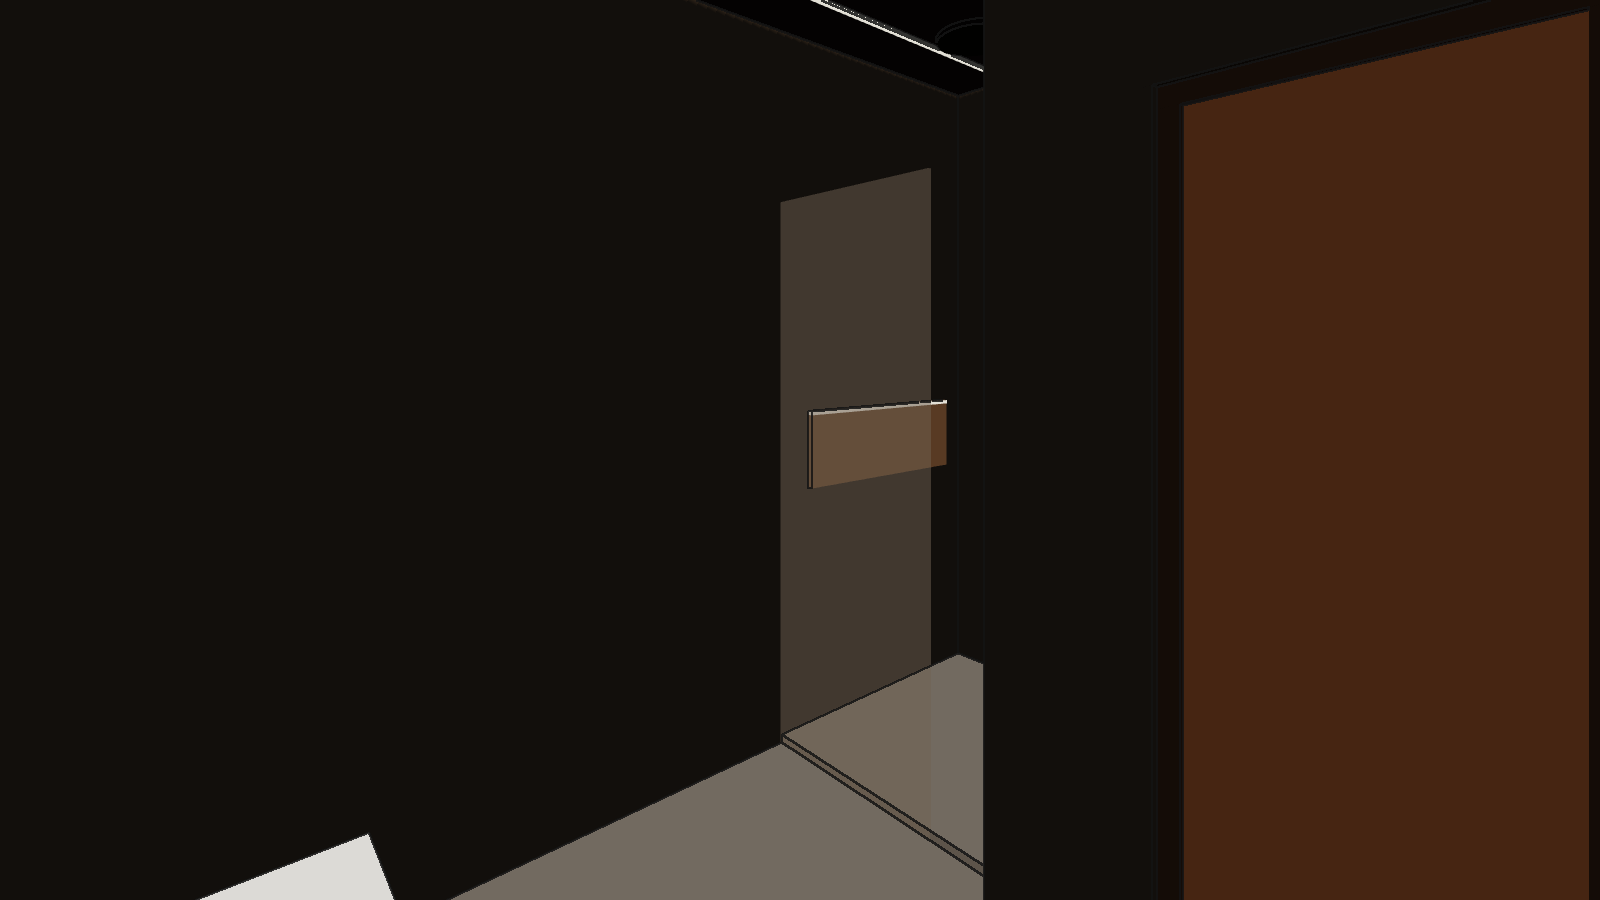
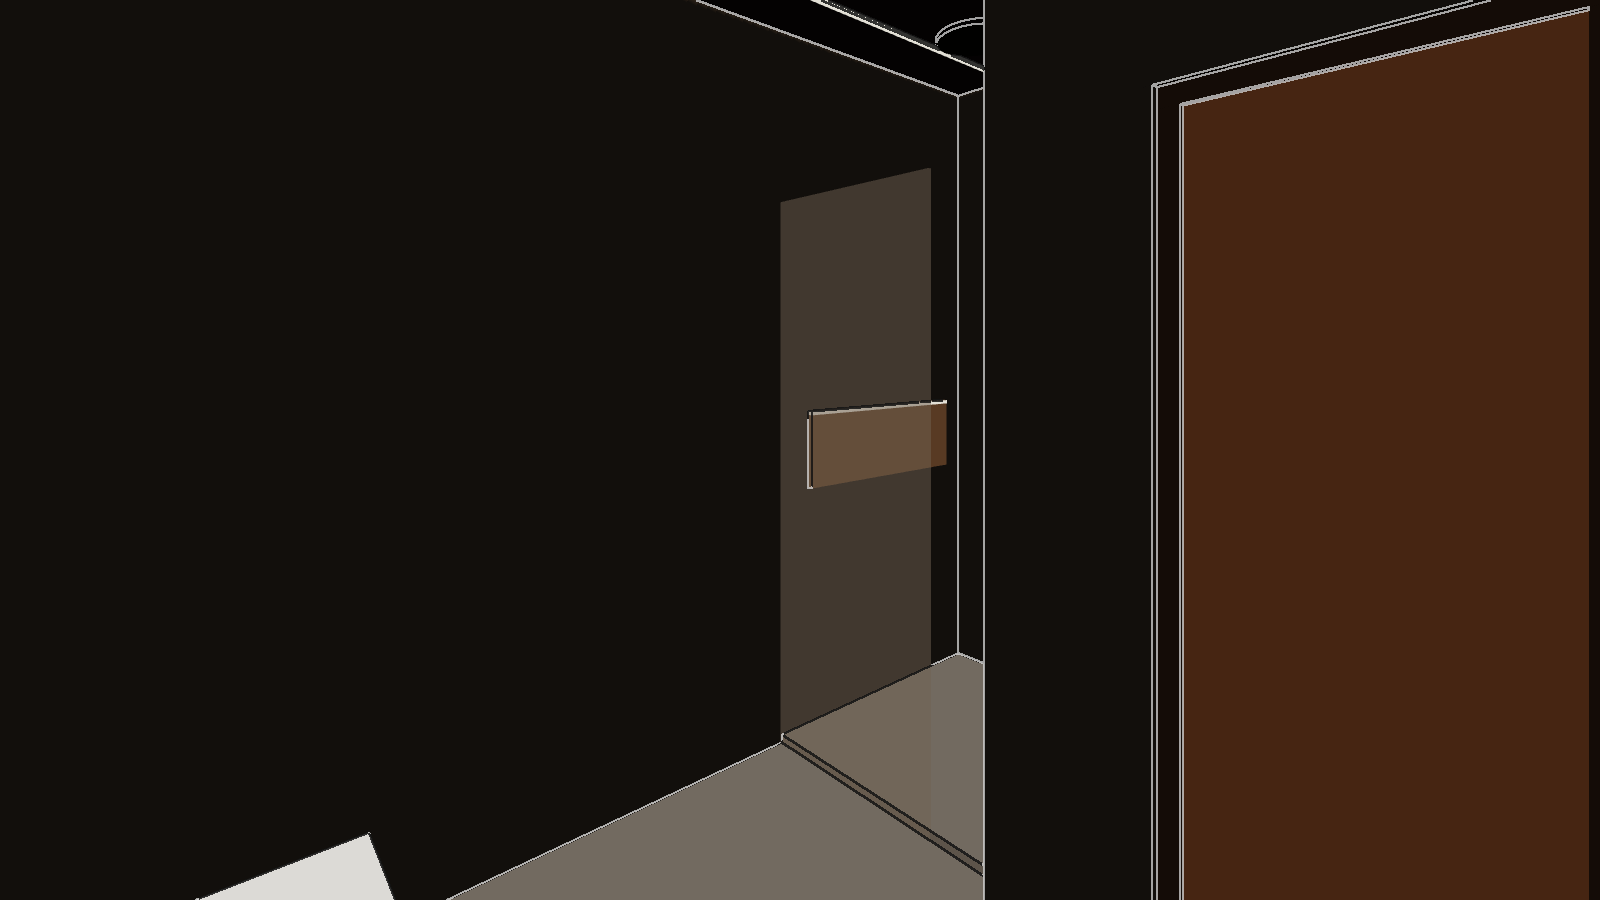
Guide outlines turn light on dark surfaces (slate, black glass) so corners stay readable

diff --git a/luxury-render/engine/compose_guide.py b/luxury-render/engine/compose_guide.py
@@ -15,6 +15,11 @@ for b in sys.argv[1:]:
     g = cv2.imread(os.path.join(b, "guide.png")).astype(np.float32)
     e = cv2.imread(gt, cv2.IMREAD_GRAYSCALE) < 128
     e = cv2.dilate(e.astype(np.uint8), np.ones((2, 2), np.uint8)).astype(bool)
-    g[e] = g[e] * 0.15 + np.array([20, 20, 20]) * 0.85
+    # dark outlines on light surfaces, LIGHT outlines on dark surfaces (slate, black glass): an edge must always be visible
+    luma = g[:, :, :3].mean(axis=2)
+    dark_bg = cv2.blur(luma, (9, 9)) < 70
+    ed, el = e & ~dark_bg, e & dark_bg
+    g[ed] = g[ed] * 0.15 + np.array([20, 20, 20]) * 0.85
+    g[el] = g[el] * 0.25 + np.array([215, 215, 215]) * 0.75
     cv2.imwrite(os.path.join(b, "guide_lined.png"), g.astype(np.uint8))
     print("guide_lined", b)
